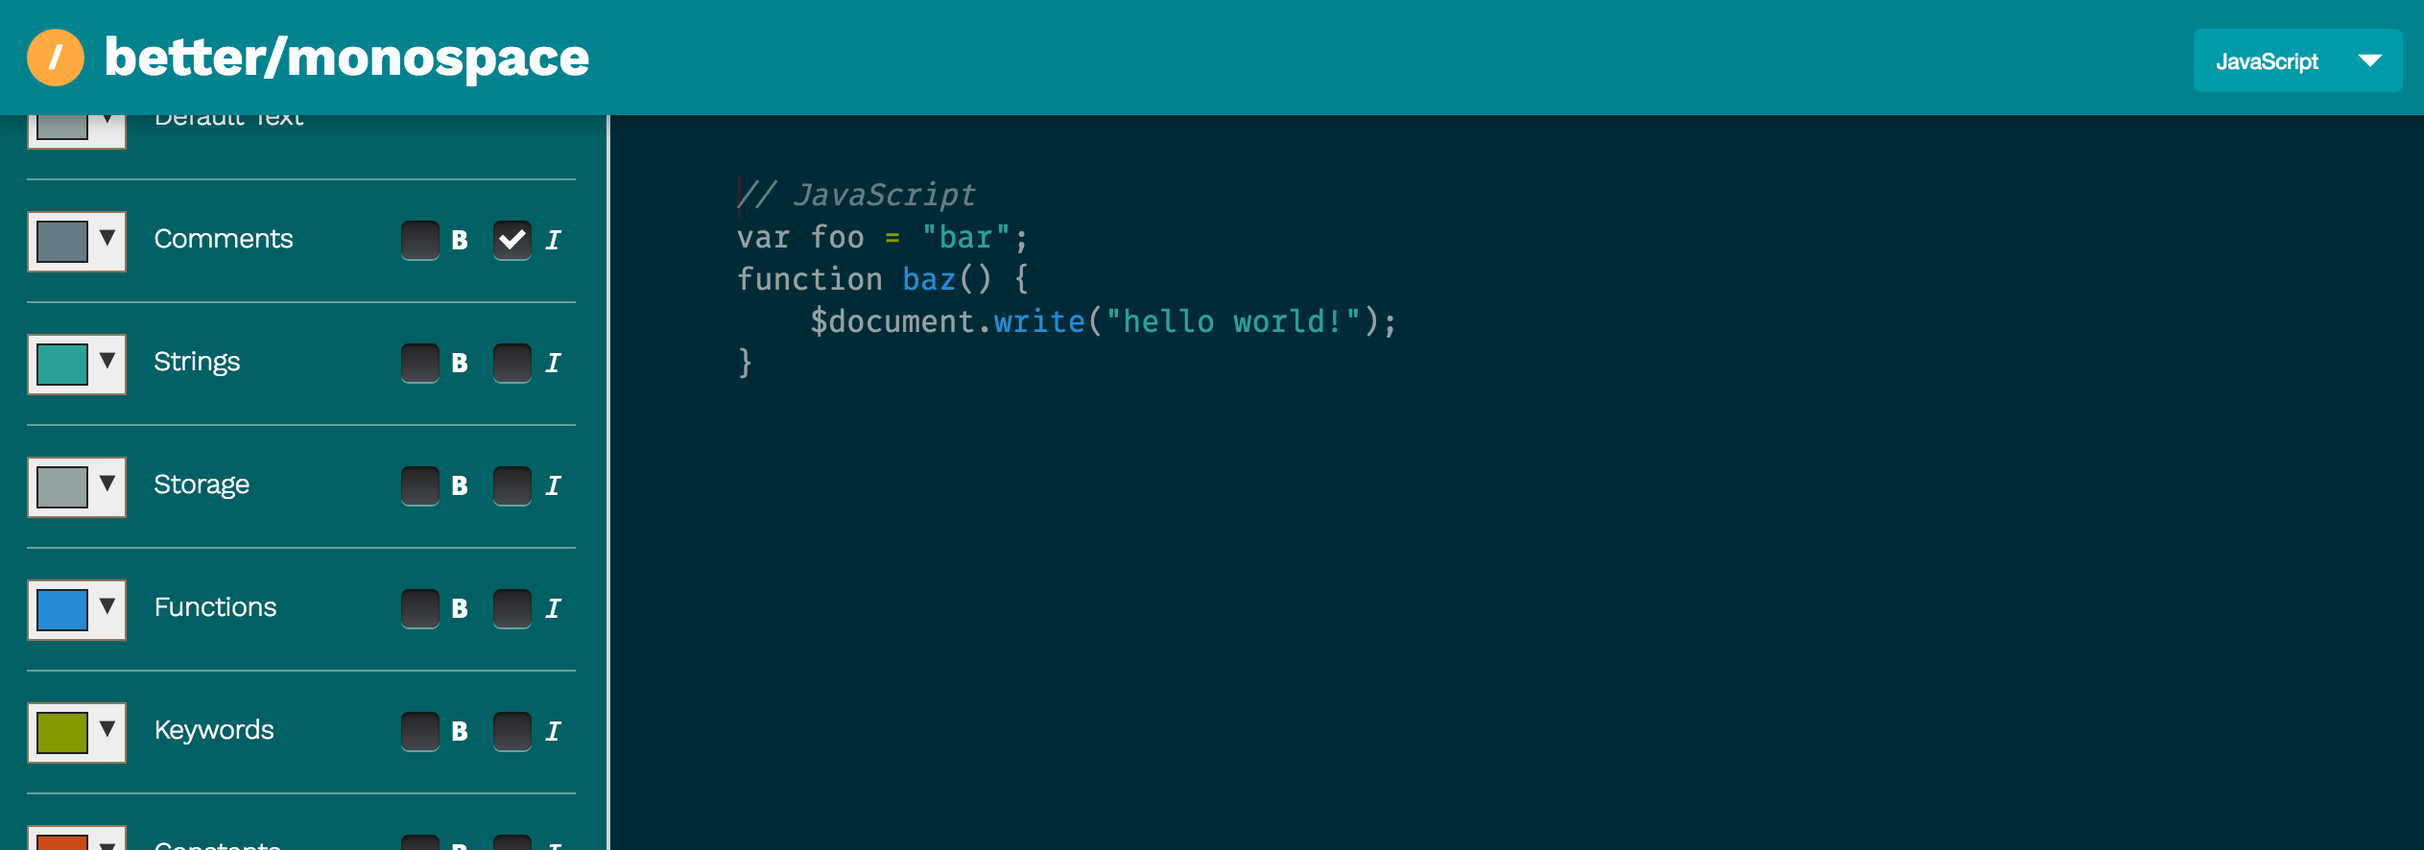
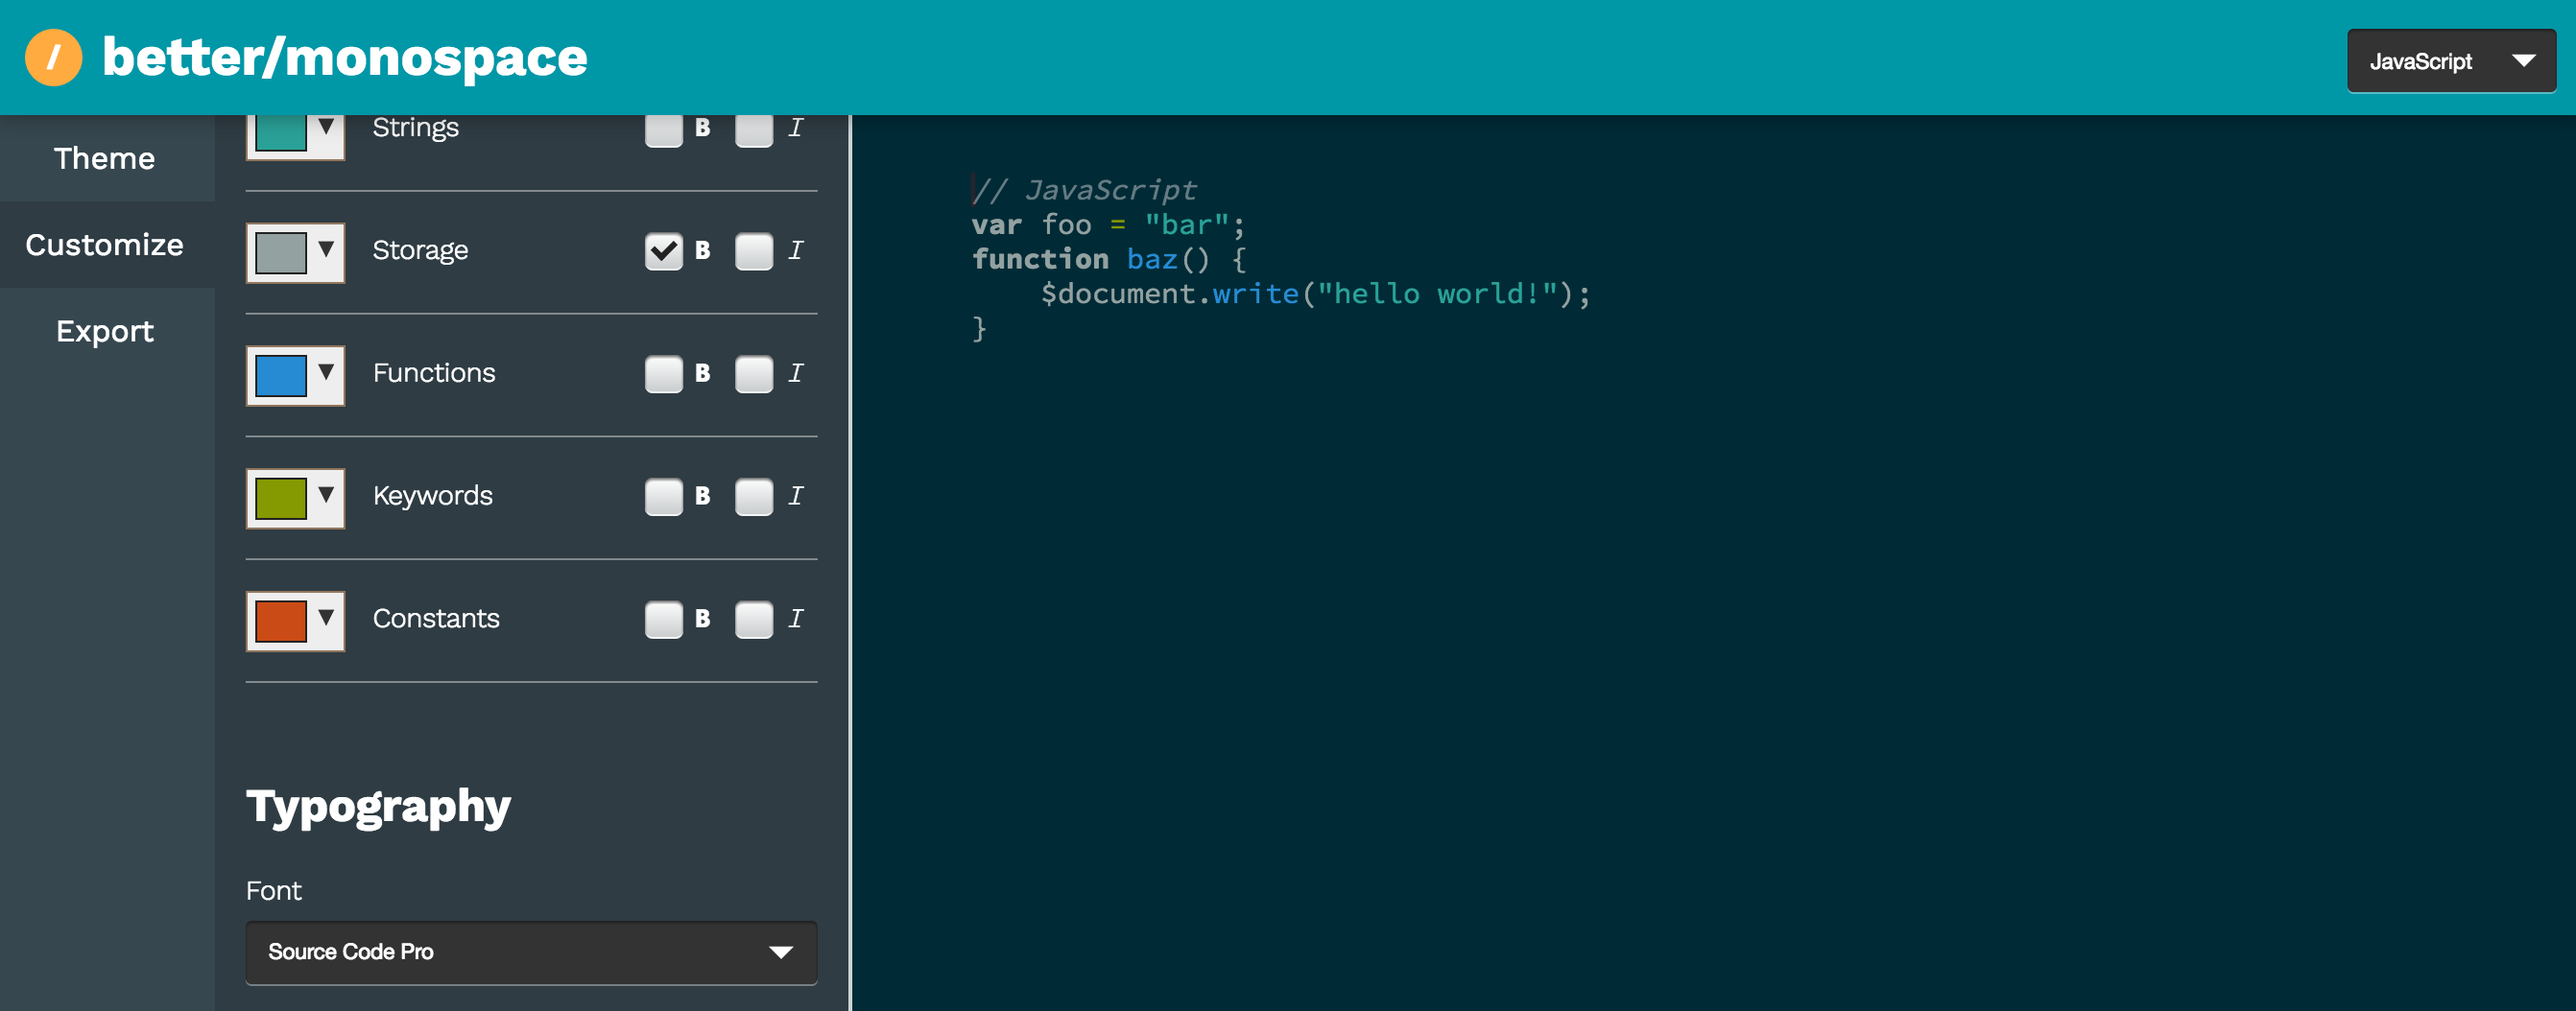
screenshot update

diff --git a/css/style.css b/css/style.css
@@ -195,7 +195,7 @@ select {
   cursor: pointer;
 }
 .nav-tabs li.active {
-  background-color: #1e272c;
+  background-color: #2f3c43;
 }
 .tab-pane {
   display: none;
@@ -204,7 +204,7 @@ select {
   display: block;
 }
 .toolbar {
-  background-color: #263238;
+  background-color: #37474F;
   color: white;
   display: flex;
   flex: 0 0 33%;
@@ -218,7 +218,7 @@ select {
   width: 100%;
   font-weight: 100;
   text-transform: capitalize;
-  background-color: #1e272c;
+  background-color: #2f3c43;
   padding: 0 16px;
 }
 .toolbar .toolbar-container .tab-pane {

diff --git a/less/variables.less b/less/variables.less
@@ -1,6 +1,6 @@
 /** colors **/
 @colorPrimary:     #0097A7;
-@colorSecondary:   #263238;
+@colorSecondary:   #37474F;
 @colorAccent:      #FFAB40;
 
 /** layout **/
